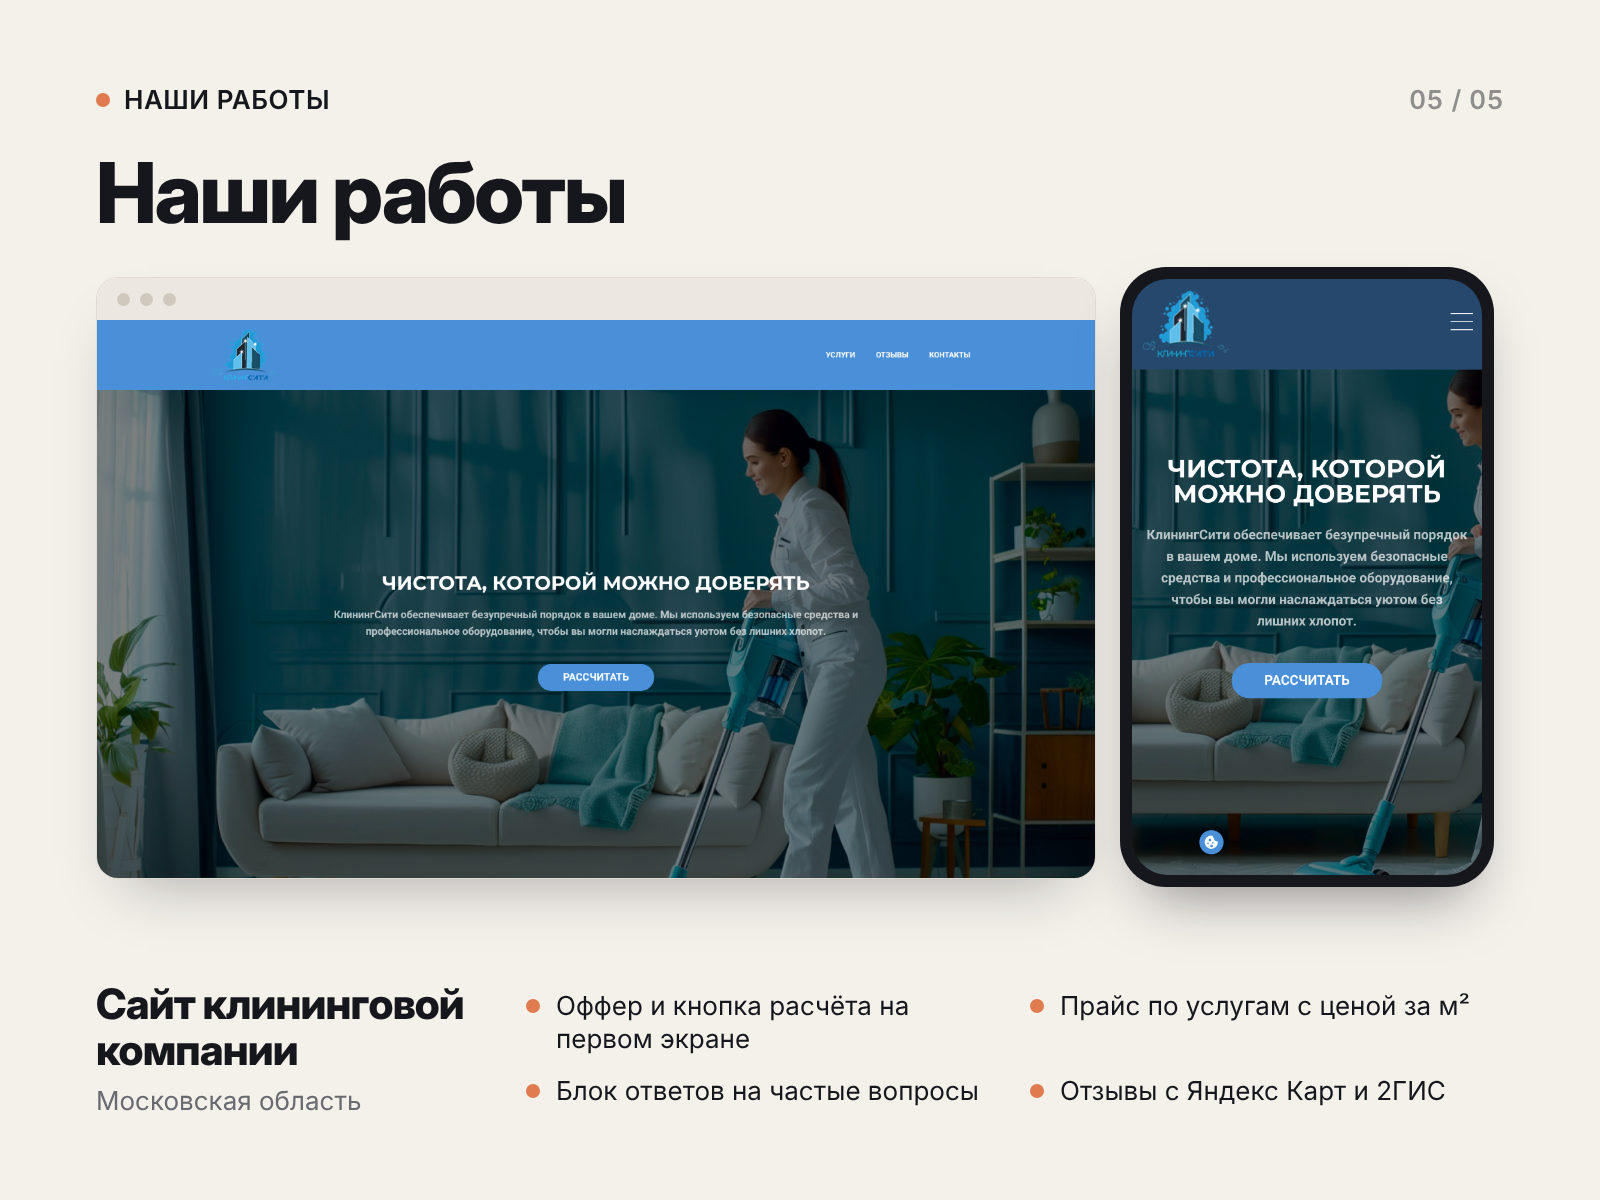
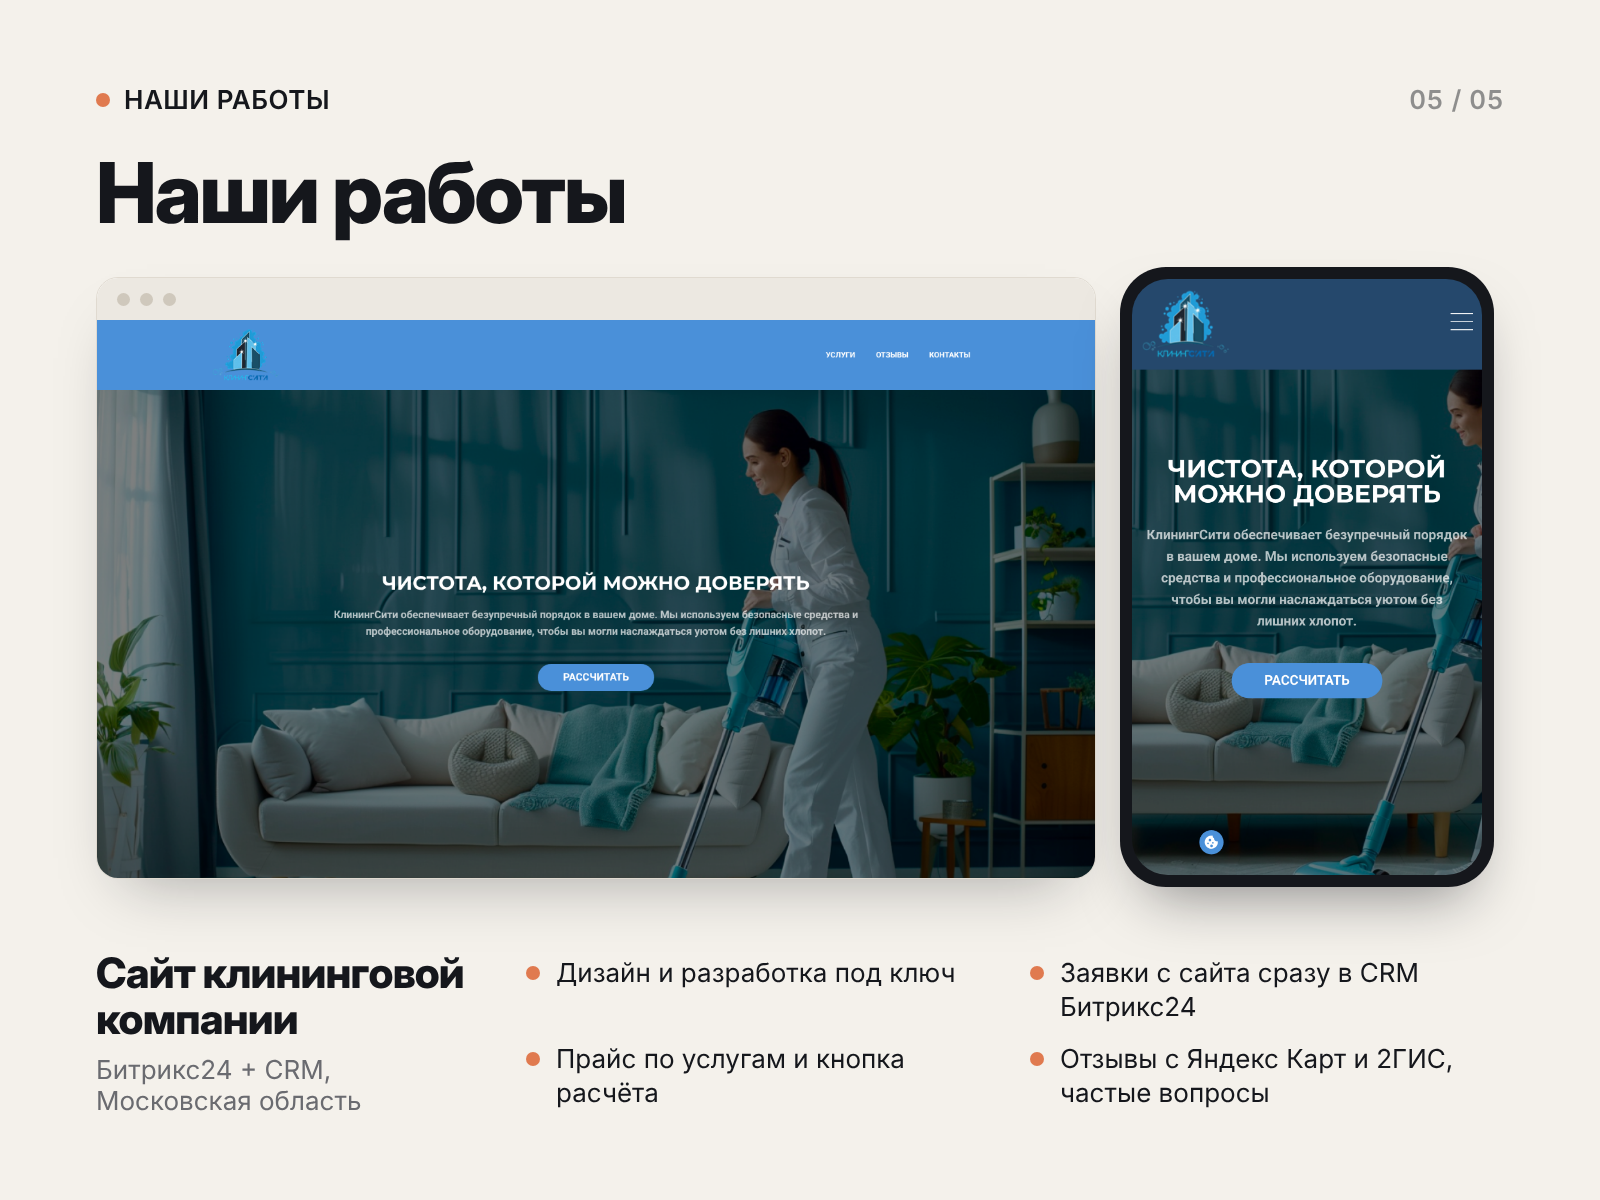
Avito ads: describe cleaning case (Bitrix24 + CRM, built end to end)
Claude-Session: https://claude.ai/code/session_014B2X5Ksf3MbGYuZYbzjrCy

Changed region(s): [[0.6562, 0.8017, 0.9062, 0.925], [0.3438, 0.8017, 0.625, 0.925], [0.0625, 0.8017, 0.3125, 0.8942]]

diff --git a/avito/src/html/00-universal-05.html b/avito/src/html/00-universal-05.html
@@ -112,7 +112,7 @@ h2 { position: relative; margin-top: 34px; font-size: 84px; font-weight: 800; le
     <div class="phone"><img src="../assets/cleaning-mobile.png"></div>
   </div>
   <div class="pf-info">
-    <div class="pf-name"><b>Сайт клининговой компании</b><span>Московская область</span></div>
-    <ul><li>Оффер и кнопка расчёта на первом экране</li><li>Прайс по услугам с ценой за м²</li><li>Блок ответов на частые вопросы</li><li>Отзывы с Яндекс Карт и 2ГИС</li></ul>
+    <div class="pf-name"><b>Сайт клининговой компании</b><span>Битрикс24 + CRM, Московская область</span></div>
+    <ul><li>Дизайн и разработка под ключ</li><li>Заявки с сайта сразу в CRM Битрикс24</li><li>Прайс по услугам и кнопка расчёта</li><li>Отзывы с Яндекс Карт и 2ГИС, частые вопросы</li></ul>
   </div>
 </div></body></html>

diff --git a/avito/src/html/02-web-05.html b/avito/src/html/02-web-05.html
@@ -112,7 +112,7 @@ h2 { position: relative; margin-top: 34px; font-size: 84px; font-weight: 800; le
     <div class="phone"><img src="../assets/cleaning-mobile.png"></div>
   </div>
   <div class="pf-info">
-    <div class="pf-name"><b>Сайт клининговой компании</b><span>Московская область</span></div>
-    <ul><li>Оффер и кнопка расчёта на первом экране</li><li>Прайс по услугам с ценой за м²</li><li>Блок ответов на частые вопросы</li><li>Отзывы с Яндекс Карт и 2ГИС</li></ul>
+    <div class="pf-name"><b>Сайт клининговой компании</b><span>Битрикс24 + CRM, Московская область</span></div>
+    <ul><li>Дизайн и разработка под ключ</li><li>Заявки с сайта сразу в CRM Битрикс24</li><li>Прайс по услугам и кнопка расчёта</li><li>Отзывы с Яндекс Карт и 2ГИС, частые вопросы</li></ul>
   </div>
 </div></body></html>

diff --git a/avito/src/build.py b/avito/src/build.py
@@ -76,14 +76,14 @@ ADS = {
                 "type": "portfolio",
                 "title": "Наши работы",
                 "project": "Сайт клининговой компании",
-                "place": "Московская область",
+                "place": "Битрикс24 + CRM, Московская область",
                 "desk": "cleaning-desktop.png",
                 "mob": "cleaning-mobile.png",
                 "features": [
-                    "Оффер и кнопка расчёта на первом экране",
-                    "Прайс по услугам с ценой за м²",
-                    "Блок ответов на частые вопросы",
-                    "Отзывы с Яндекс Карт и 2ГИС",
+                    "Дизайн и разработка под ключ",
+                    "Заявки с сайта сразу в CRM Битрикс24",
+                    "Прайс по услугам и кнопка расчёта",
+                    "Отзывы с Яндекс Карт и 2ГИС, частые вопросы",
                 ],
             },
         ],
@@ -200,14 +200,14 @@ ADS = {
                 "type": "portfolio",
                 "title": "Наши работы",
                 "project": "Сайт клининговой компании",
-                "place": "Московская область",
+                "place": "Битрикс24 + CRM, Московская область",
                 "desk": "cleaning-desktop.png",
                 "mob": "cleaning-mobile.png",
                 "features": [
-                    "Оффер и кнопка расчёта на первом экране",
-                    "Прайс по услугам с ценой за м²",
-                    "Блок ответов на частые вопросы",
-                    "Отзывы с Яндекс Карт и 2ГИС",
+                    "Дизайн и разработка под ключ",
+                    "Заявки с сайта сразу в CRM Битрикс24",
+                    "Прайс по услугам и кнопка расчёта",
+                    "Отзывы с Яндекс Карт и 2ГИС, частые вопросы",
                 ],
             },
         ],

diff --git a/avito/ОБЪЯВЛЕНИЯ.md b/avito/ОБЪЯВЛЕНИЯ.md
@@ -74,7 +74,7 @@ AI-АГЕНТЫ - ОТ 50 000 ₽
 5. Запуск, обучение, поддержка.
 
 ПРИМЕРЫ РАБОТ
-• Сайт клининговой компании (Московская область): оффер и кнопка расчёта на первом экране, прайс с ценой за м², ответы на частые вопросы, отзывы с Яндекс Карт и 2ГИС, адаптив под телефон.
+• Сайт клининговой компании (Московская область) на Битрикс24. Сделали под ключ: дизайн, разработку и подключение к CRM, так что заявки с сайта сразу попадают в Битрикс24. На сайте прайс с ценой за м², кнопка расчёта стоимости, ответы на частые вопросы, отзывы с Яндекс Карт и 2ГИС, адаптив под телефон.
 Скриншоты - на последнем фото. Ссылки на работающие сайты пришлём в сообщениях.
 
 ✓ Договор и закрывающие документы
@@ -196,7 +196,7 @@ AI-АГЕНТЫ - ОТ 50 000 ₽
 Тексты для сайта можем написать сами. Итоговую смету фиксируем после брифа, и она не растёт в процессе.
 
 ПРИМЕРЫ РАБОТ
-• Сайт клининговой компании (Московская область): оффер и кнопка расчёта на первом экране, прайс с ценой за м², ответы на частые вопросы, отзывы с Яндекс Карт и 2ГИС, адаптив под телефон.
+• Сайт клининговой компании (Московская область) на Битрикс24. Сделали под ключ: дизайн, разработку и подключение к CRM, так что заявки с сайта сразу попадают в Битрикс24. На сайте прайс с ценой за м², кнопка расчёта стоимости, ответы на частые вопросы, отзывы с Яндекс Карт и 2ГИС, адаптив под телефон.
 Скриншоты - на последнем фото. Ссылки на работающие сайты пришлём в сообщениях.
 
 ЭТАПЫ
